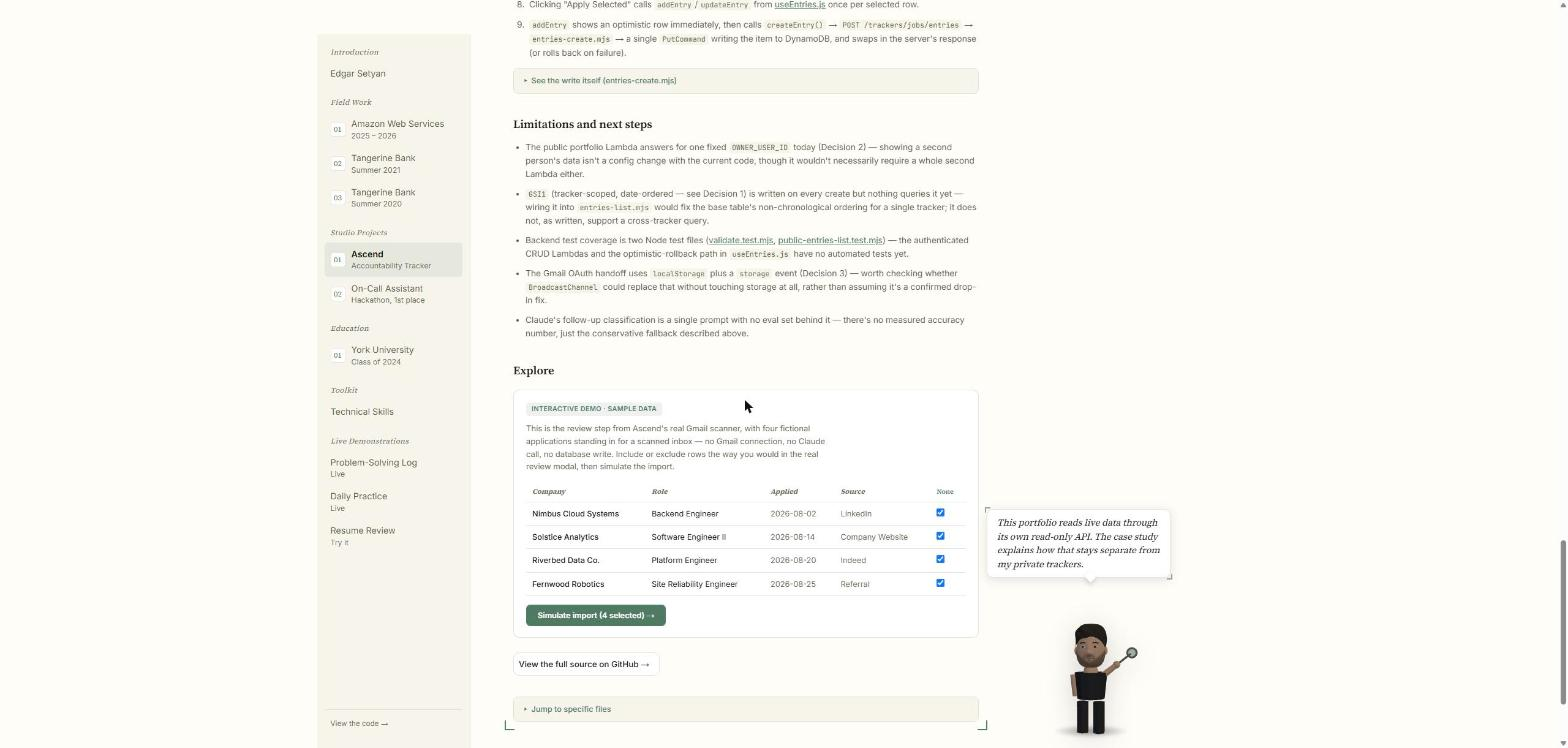
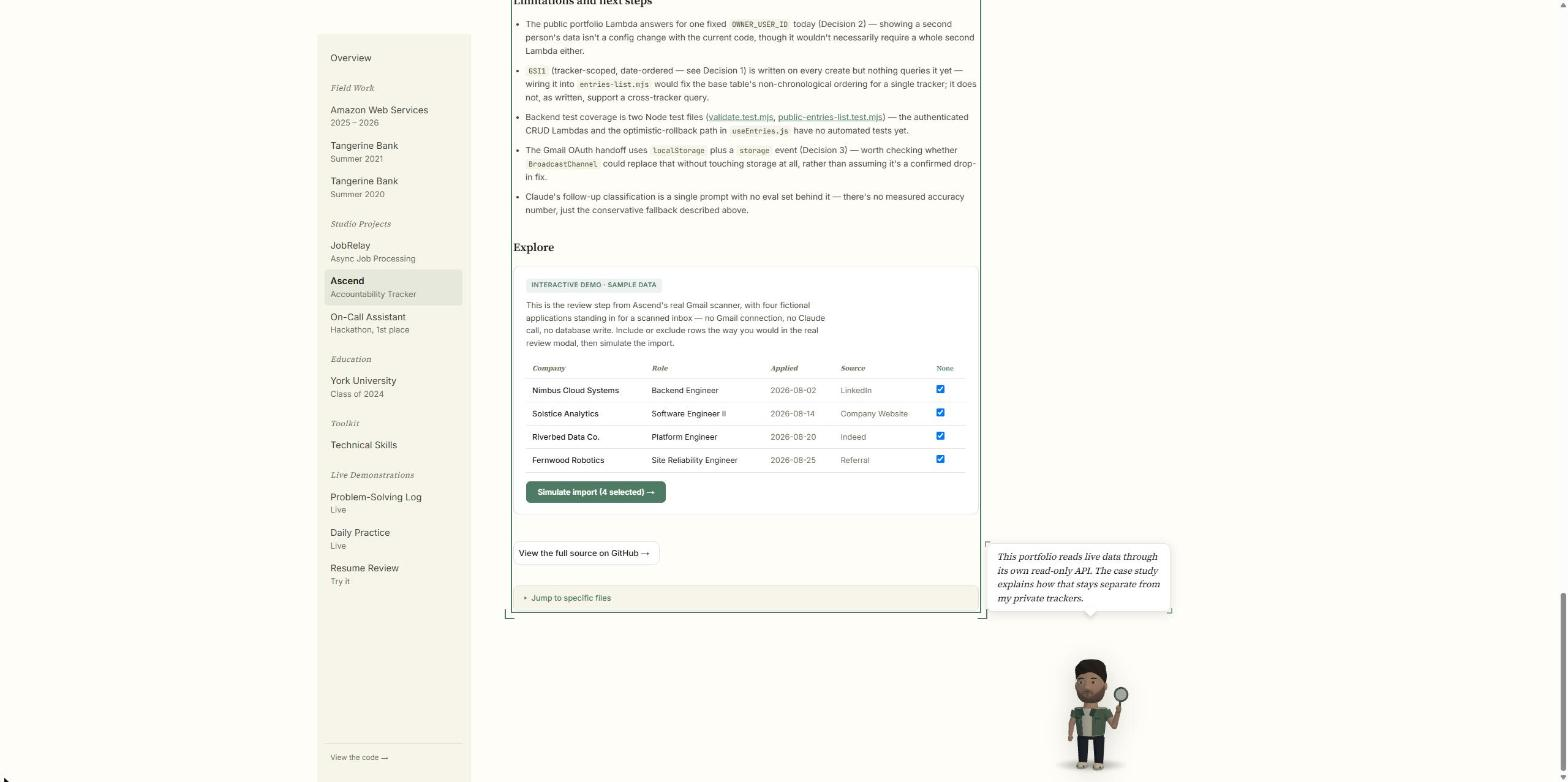
README: refresh portfolio screenshots, add JobRelay

diff --git a/README.md b/README.md
@@ -5,13 +5,14 @@ A personal accountability tracker built with a production AWS stack. Tracks Leet
 **Live:** [edgarsetyan.com](https://edgarsetyan.com) · **Portfolio:** [edgarsetyan.com/portfolio](https://edgarsetyan.com/portfolio)
 
 <p>
-  <img src="docs/screenshot-gallery.jpg" width="32%" alt="The Edgar Setyan Gallery — the public portfolio's Introduction plate" />
+  <img src="docs/screenshot-gallery.jpg" width="32%" alt="The public portfolio's home page" />
   <img src="docs/screenshot-exhibit.jpg" width="32%" alt="An exhibit plate on the public portfolio, framed like a museum display case" />
   <img src="docs/screenshot-resume-review.jpg" width="32%" alt="Resume Review — a live Claude-powered resume scorer on the public portfolio" />
 </p>
 <p>
   <img src="docs/screenshot-case-study.jpg" width="32%" alt="The Ascend engineering case study — problem, system overview, and architecture diagram, revealed in place on the Ascend exhibit" />
   <img src="docs/screenshot-demo.jpg" width="32%" alt="Interactive demo with sample data — the review-before-import step from the Gmail scanner, reproduced with fictional applications" />
+  <img src="docs/screenshot-jobrelay.jpg" width="32%" alt="The JobRelay write-up on the portfolio: the problem and a diagram of how a job moves from the API through PostgreSQL, the outbox and Redis to the workers" />
 </p>
 
 ---
